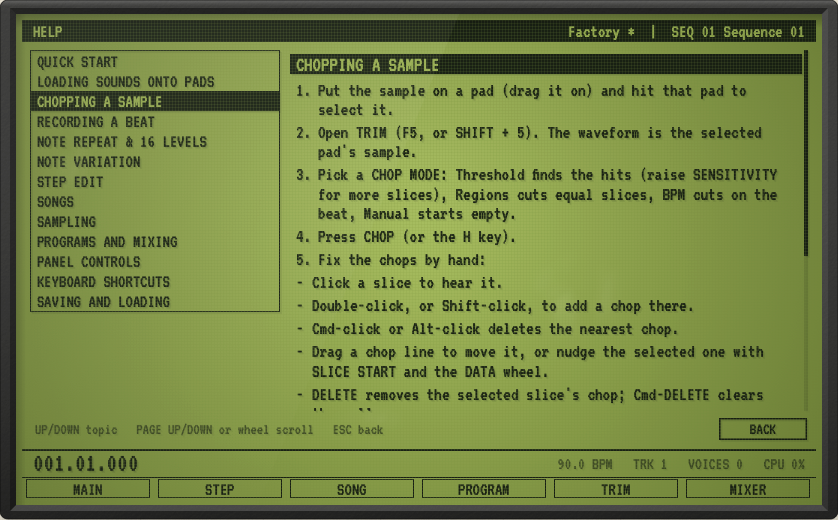
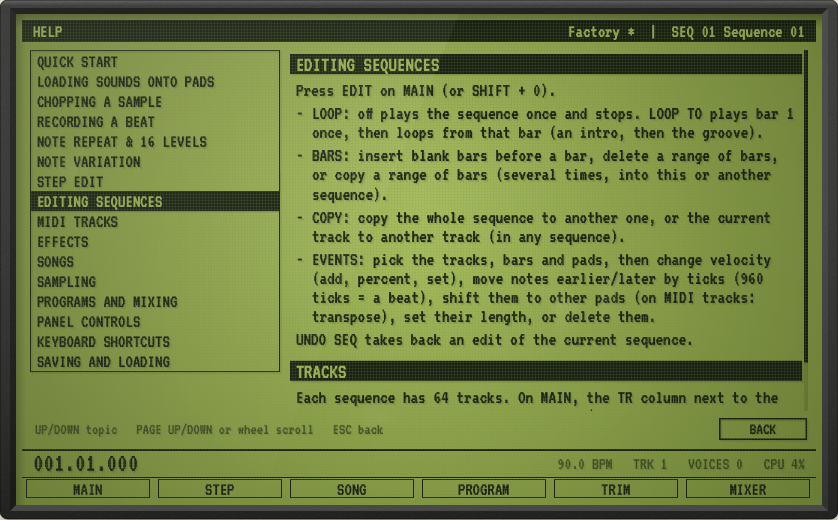
README: current panel screenshot and HELP image, updated performance and data model notes; help text for 64 tracks

Changed region(s): [[0.031, 0.0923, 0.9618, 0.8], [0.031, 0.3692, 0.3413, 0.7077]]

diff --git a/src/ui/HelpScreen.cpp b/src/ui/HelpScreen.cpp
@@ -61,7 +61,7 @@ Chops aren't saved until you convert them, so you can try as many as you like.)"
 4. Hold ERASE and hold a pad while playing to remove that pad's notes.
 5. UNDO SEQ (Cmd-Z) takes back the last recording or edit.
 6. For push or drag, set TIMING SHIFT in OTHER: notes land a few ticks early or late after timing correct.
-Each sequence has 8 tracks; pick the track in the track strip at the bottom of MAIN, and give it a program. Sequence changes you make while playing happen at the end of the loop.)" },
+Each sequence has 64 tracks; pick the track in the track strip at the bottom of MAIN (the TR arrows page through them 8 at a time) and give it a program, or set its OUT to play an external instrument over MIDI. Sequence changes you make while playing happen at the end of the loop.)" },
 
     { "Note repeat & 16 levels", R"(# Note repeat, 16 levels, full level
 - NOTE REPEAT: hold the TAP TEMPO / NOTE REPEAT key and hold pads: they repeat at the NOTE REPEAT rate on MAIN, on the swung grid, louder the harder you press (drag up on a held pad). N latches it on. Tap the same key quickly for tap tempo.

diff --git a/README.md b/README.md
@@ -31,7 +31,7 @@ UI performance:
 - Pads repaint individually.
 - On a smaller window, the screens are scaled as a whole (like a smaller display) instead of being squeezed. The minimum window size is 1280×800.
 
-Release build CPU: about 2% idle and about 17% while playing, mostly the pad hit animation.
+Release build: about 3% CPU idle and about 17% while playing (mostly the pad hit animation), about 140 MB of memory.
 
 ## Build & run
 
@@ -173,7 +173,7 @@ Double-press STOP to silence every voice. MIDI pad controllers: notes 36–51 pl
 
 ```
 src/core/      platform-neutral engine (unit-tested, no GUI)
-  Project      data model: samples, programs (128 pads x 4 layers), 16 sequences x 8 tracks, 8 songs
+  Project      data model: samples, 24 programs (128 pads x 4 layers), 99 sequences x 64 tracks, 8 songs
   Timing       timing correct + swing math
   Transport    sequencer: playback, loop, record/overdub, note repeat, erase, count-in, seq switching,
                song mode, note variation
